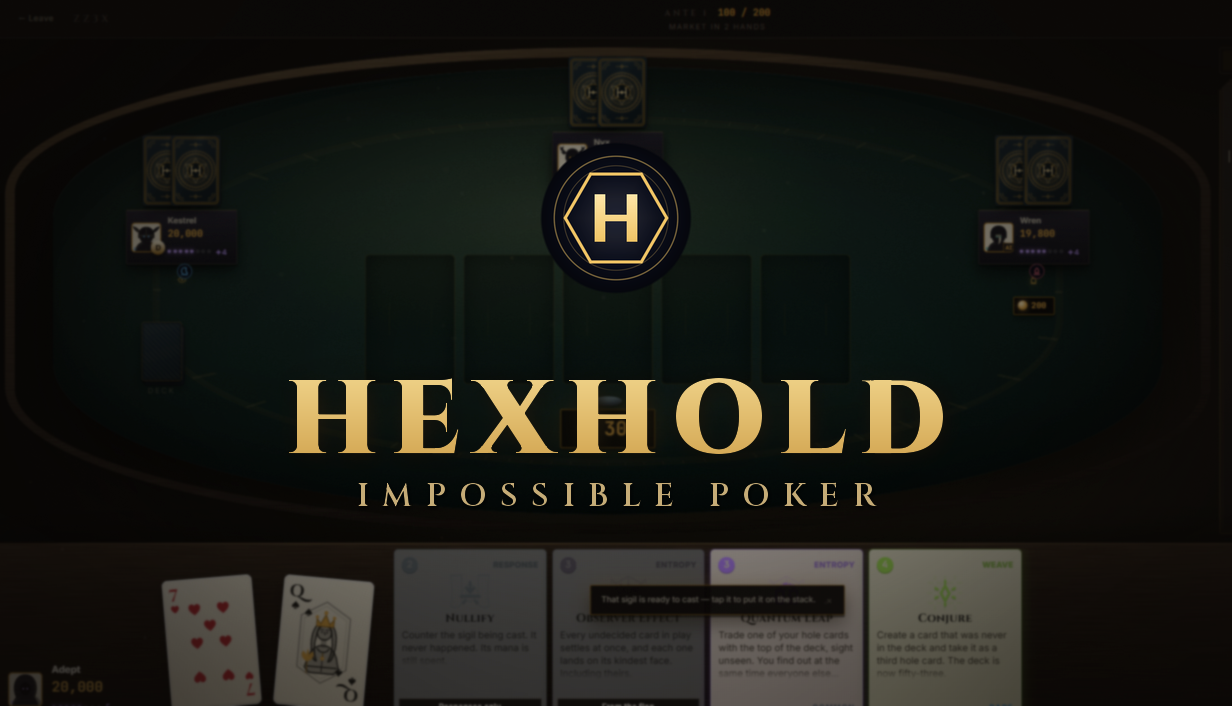
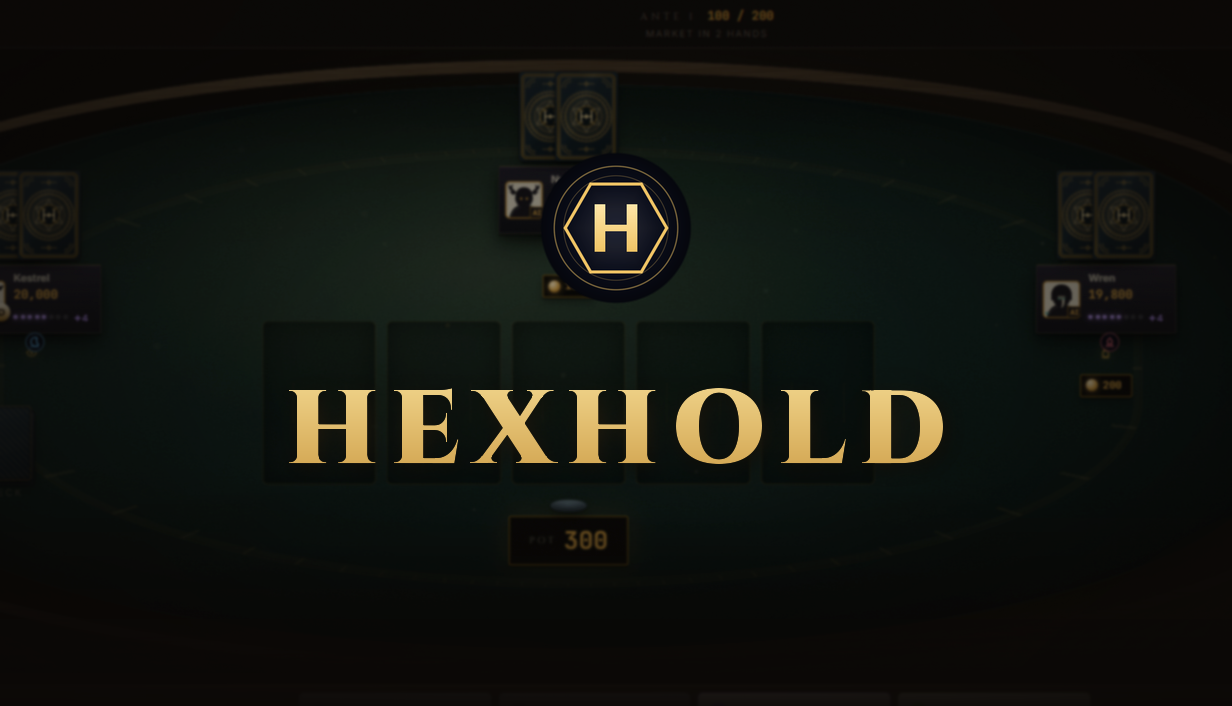
fix(steam): capsules show the name and the art only, no tagline or UI text
Valve's capsule rule: header, small, main and vertical capsules carry the
game's art and its name or logo, nothing else. Four of them (and the library
capsule, logo and event cover) set IMPOSSIBLE POKER under the wordmark; the
main capsule's crop also showed a hint toast and sigil text from the capture,
and the vertical one a cut-off sigil card and the turn clock.

title_block no longer sets the tagline by default and no caller asks for it;
the main capsule and event cover crop to the felt; the tall capsules ink out
the UI either side of the hole cards. Each regenerated file was opened and
looked at.

diff --git a/steam/make_art.py b/steam/make_art.py
@@ -88,6 +88,8 @@ def gradient_band(img: Image.Image, side: str, reach: float, alpha=235) -> Image
         for xx in range(0, w, 1):
             if side == "left":
                 f = 1 - xx / (w * reach)
+            elif side == "right":
+                f = 1 - (w - xx) / (w * reach)
             elif side == "bottom":
                 f = 1 - (h - yy) / (h * reach)
             elif side == "top":
@@ -97,6 +99,19 @@ def gradient_band(img: Image.Image, side: str, reach: float, alpha=235) -> Image
             if f > 0:
                 px[xx, yy] = round(alpha * min(1, f) ** 1.4)
     return Image.composite(Image.new("RGB", (w, h), INK), img, band)
+
+
+def keep_window(img: Image.Image, x0: float, x1: float, feather: int = 24) -> Image.Image:
+    """Ink over everything left of x0 and right of x1 (fractions of the width).
+
+    The capture around the hole cards holds a sigil card and the turn clock,
+    both with UI text; a capsule must show art and the name only.
+    """
+    w, h = img.size
+    mask = Image.new("L", (w, h), 255)
+    ImageDraw.Draw(mask).rectangle((round(x0 * w), 0, round(x1 * w), h), fill=0)
+    mask = mask.filter(ImageFilter.GaussianBlur(feather))
+    return Image.composite(Image.new("RGB", (w, h), INK), img, mask)
 
 
 def tracked_size(text: str, f: ImageFont.FreeTypeFont, tracking: float) -> tuple[int, int]:
@@ -149,8 +164,14 @@ def emblem(size: int) -> Image.Image:
     return Image.open(ICON).convert("RGBA").resize((size, size), Image.LANCZOS)
 
 
-def title_block(width: int, with_tag=True, with_emblem=False) -> Image.Image:
-    """The wordmark sized to a target width: HEXHOLD over IMPOSSIBLE POKER."""
+def title_block(width: int, with_tag=False, with_emblem=False) -> Image.Image:
+    """The wordmark sized to a target width: HEXHOLD, optionally over IMPOSSIBLE POKER.
+
+    Valve's capsule rule (2024): the header, small, main and vertical capsules
+    carry the game's art and its name or logo only. No tagline, no marketing
+    line, no quotes. So nothing here passes with_tag=True; the tagline lives in
+    the store copy (steam/store-page.md) instead.
+    """
     size = 200
     t = gold_text(None, "HEXHOLD", font(900, size))
     scale = width / t.width
@@ -208,21 +229,30 @@ def main():
     # Small capsule 462x174: legibility first, nearly all title.
     bg = grade(cover(table, 462, 174, focus=(0.43, 0.36), zoom=1.1), dark=0.85, blur=2.5)
     bg = vignette(bg, 0.95)
-    save(place(bg, title_block(380, with_tag=False), 0.5, 0.52), "small_capsule_462x174.png", (462, 174))
+    save(place(bg, title_block(380), 0.5, 0.52), "small_capsule_462x174.png", (462, 174))
 
-    # Main capsule 1232x706.
-    bg = grade(cover(table, 1232, 706, focus=(0.43, 0.42), zoom=1.15), dark=0.66, blur=1.0)
-    bg = vignette(bg, 0.9)
-    save(place(bg, title_block(760, with_emblem=True), 0.5, 0.47), "main_capsule_1232x706.png", (1232, 706))
+    # Main capsule 1232x706: the felt and the seats only. Zoomed past the
+    # rail so no hint toast or sigil text from the capture reads as copy.
+    bg = grade(cover(table, 1232, 706, focus=(0.45, 0.33), zoom=1.45), dark=0.7, blur=1.2)
+    bg = gradient_band(vignette(bg, 0.9), "bottom", 0.35)
+    save(place(bg, title_block(760, with_emblem=True), 0.5, 0.5), "main_capsule_1232x706.png", (1232, 706))
 
     # Vertical capsule 748x896: your hand and your sigils, title above.
-    bg = grade(cover(hand, 748, 896, focus=(0.19, 0.80), zoom=2.1), dark=0.45, blur=0.6)
-    bg = gradient_band(vignette(bg, 0.8), "top", 0.6)
+    # Cropped to the two hole cards: the sigil beside them and the turn clock
+    # carry UI text, which a capsule must not.
+    bg = grade(cover(hand, 748, 896, focus=(0.19, 0.78), zoom=2.1), dark=0.45, blur=0.6)
+    bg = vignette(bg, 0.8)
+    bg = keep_window(bg, 0.13, 0.85)
+    for side, reach in (("top", 0.6), ("bottom", 0.32)):
+        bg = gradient_band(bg, side, reach, alpha=250)
     save(place(bg, title_block(600, with_emblem=True), 0.5, 0.2), "vertical_capsule_748x896.png", (748, 896))
 
     # Library capsule 600x900.
-    bg = grade(cover(hand, 600, 900, focus=(0.19, 0.80), zoom=2.3), dark=0.45, blur=0.6)
-    bg = gradient_band(vignette(bg, 0.8), "top", 0.6)
+    bg = grade(cover(hand, 600, 900, focus=(0.185, 0.78), zoom=1.75), dark=0.45, blur=0.6)
+    bg = vignette(bg, 0.8)
+    bg = keep_window(bg, 0.12, 0.86)
+    for side, reach in (("top", 0.6), ("bottom", 0.32)):
+        bg = gradient_band(bg, side, reach, alpha=250)
     save(place(bg, title_block(500, with_emblem=True), 0.5, 0.18), "library_capsule_600x900.png", (600, 900))
 
     # Library hero 3840x1240: NO text, Steam lays the logo over it.
@@ -253,9 +283,9 @@ def main():
 
     # Event cover 800x450: needed for each announcement or event, including
     # the launch one. The main capsule's composition at event size.
-    bg = grade(cover(table, 800, 450, focus=(0.43, 0.42), zoom=1.15), dark=0.66, blur=1.0)
-    bg = vignette(bg, 0.9)
-    save(place(bg, title_block(500, with_emblem=True), 0.5, 0.47), "event_cover_800x450.png", (800, 450))
+    bg = grade(cover(table, 800, 450, focus=(0.45, 0.33), zoom=1.45), dark=0.7, blur=1.2)
+    bg = gradient_band(vignette(bg, 0.9), "bottom", 0.35)
+    save(place(bg, title_block(500, with_emblem=True), 0.5, 0.5), "event_cover_800x450.png", (800, 450))
     ico = Image.open(ICON).convert("RGBA")
     ico.save(OUT / "hexhold.ico", sizes=[(16, 16), (24, 24), (32, 32), (48, 48), (64, 64), (128, 128), (256, 256)])
     ico.save(ROOT / "electron" / "icon.ico", sizes=[(16, 16), (24, 24), (32, 32), (48, 48), (64, 64), (128, 128), (256, 256)])
